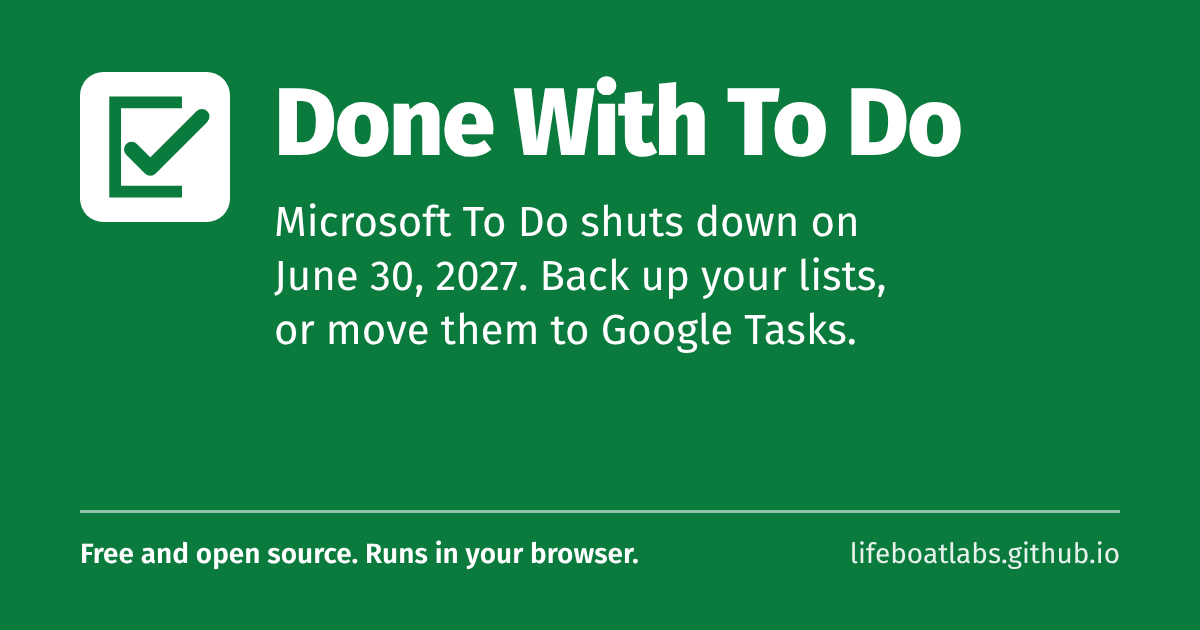
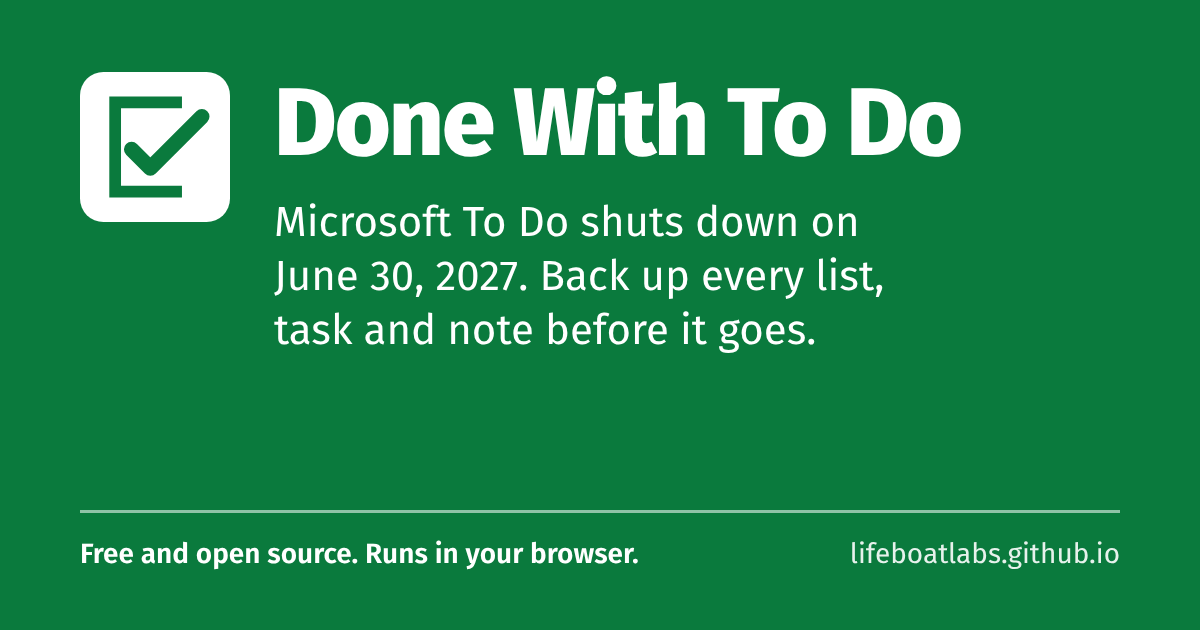
Hide Google Tasks until Google approves the app
The site now only shows what works today. While googleForEveryone is
false, Google Tasks is out of sight instead of "Coming soon": no row on
the start page, no Google card or list checkboxes on the overview (the
backup always has every list), and the start text, steps, FAQ and share
image talk about the backup only. Testers (?testers), and everyone once
the switch is flipped, get the Google version back.

Site version 9.

Claude-Session: https://claude.ai/code/session_012SxryoHjpu2soSsKdLNJGj

Changed region(s): [[0.2158, 0.3921, 0.74, 0.573]]

diff --git a/index.html b/index.html
@@ -6,25 +6,25 @@
   <meta http-equiv="Content-Security-Policy" content="default-src 'none'; script-src 'self' https://accounts.google.com/gsi/client; style-src 'self' 'unsafe-inline' https://accounts.google.com/gsi/style; font-src 'self'; img-src 'self' data: blob:; connect-src https://login.microsoftonline.com https://graph.microsoft.com https://tasks.googleapis.com https://accounts.google.com/gsi/ https://oauth2.googleapis.com; frame-src https://accounts.google.com/gsi/; base-uri 'none'; form-action 'none'; object-src 'none'">
   <meta name="color-scheme" content="light">
   <title>Done With To Do: take your Microsoft To Do lists with you</title>
-  <meta name="description" content="Microsoft To Do shuts down on June 30, 2027. Move your lists to Google Tasks or save a full backup. Free, open source, and it all happens in your browser.">
+  <meta name="description" content="Microsoft To Do shuts down on June 30, 2027. Save a full backup of every list, task, step and note: a spreadsheet, a printable page, Markdown and calendar files. Free, open source, and it all happens in your browser.">
   <meta property="og:title" content="Done With To Do">
-  <meta property="og:description" content="Microsoft To Do shuts down on June 30, 2027. Move your lists to Google Tasks or save a full backup. Free and open source.">
+  <meta property="og:description" content="Microsoft To Do shuts down on June 30, 2027. Back up every list, task and note before it goes. Free and open source.">
   <meta property="og:type" content="website">
   <meta property="og:url" content="https://lifeboatlabs.github.io/done-with-todo/">
   <meta property="og:image" content="https://lifeboatlabs.github.io/done-with-todo/og-image.png">
   <meta property="og:image:width" content="1200">
   <meta property="og:image:height" content="630">
-  <meta property="og:image:alt" content="Done With To Do: Microsoft To Do shuts down on June 30, 2027. Back up your lists, or move them to Google Tasks.">
+  <meta property="og:image:alt" content="Done With To Do: Microsoft To Do shuts down on June 30, 2027. Back up every list, task and note before it goes.">
   <meta name="twitter:card" content="summary_large_image">
   <link rel="canonical" href="https://lifeboatlabs.github.io/done-with-todo/">
-  <link rel="icon" href="favicon.svg?v=8" type="image/svg+xml">
-  <link rel="stylesheet" href="styles.css?v=8">
-  <script src="config.js?v=8" defer></script>
-  <script src="core.js?v=8" defer></script>
-  <script src="zip.js?v=8" defer></script>
-  <script src="microsoft.js?v=8" defer></script>
-  <script src="google.js?v=8" defer></script>
-  <script src="app.js?v=8" defer></script>
+  <link rel="icon" href="favicon.svg?v=9" type="image/svg+xml">
+  <link rel="stylesheet" href="styles.css?v=9">
+  <script src="config.js?v=9" defer></script>
+  <script src="core.js?v=9" defer></script>
+  <script src="zip.js?v=9" defer></script>
+  <script src="microsoft.js?v=9" defer></script>
+  <script src="google.js?v=9" defer></script>
+  <script src="app.js?v=9" defer></script>
 </head>
 <body>
   <a class="skip" href="#main">Skip to the main content</a>
@@ -73,7 +73,7 @@
         <div class="sign-body">
           <p class="sign-lead">Microsoft To Do shuts down on June 30, 2027.</p>
           <h1 id="start-title" tabindex="-1">Take your lists with you.</h1>
-          <p class="sign-text">Move them to Google Tasks, or save a full backup you can open anywhere. It's free and open source, and it all happens in your browser.</p>
+          <p class="sign-text" id="start-text">Save a full backup of every list, task, step and note, in files you can open anywhere. It's free and open source, and it all happens in your browser.</p>
           <div class="sign-actions">
             <button type="button" id="signin-ms" class="btn btn-sign">Sign in with Microsoft</button>
             <button type="button" id="try-demo" class="btn btn-sign-quiet">Try it with sample data</button>
@@ -85,13 +85,13 @@
       <ol class="route" aria-label="How it works">
         <li><strong>Sign in with Microsoft</strong><span>Microsoft shows exactly what you're agreeing to share.</span></li>
         <li><strong>Choose your lists</strong><span>See everything that was found, and pick what to take.</span></li>
-        <li><strong>Save or move</strong><span>Download a backup, or copy your lists into Google Tasks.</span></li>
+        <li id="route-save"><strong>Save your backup</strong><span>Download everything in one zip, or just the spreadsheet.</span></li>
       </ol>
 
       <section class="block" aria-labelledby="dest-title">
         <h2 id="dest-title">Where your lists can go</h2>
         <ul class="directions">
-          <li class="direction">
+          <li class="direction" id="dir-google" hidden>
             <span class="direction-arrow" aria-hidden="true"></span>
             <div><h3>Google Tasks</h3><p>Lists, tasks, steps (as subtasks), notes and due dates. Repeats and reminders are written into each task's notes, because Google Tasks can't take them.</p></div>
             <span class="direction-state" id="dest-google-state">Available</span>
@@ -114,7 +114,7 @@
         <ul class="plain-list">
           <li>With your permission, it reads your To Do lists and your name. Microsoft doesn't let it see anything else.</li>
           <li>Everything happens in this browser tab. There's no server and no database, so your tasks never reach the people who made this.</li>
-          <li>If you choose Google Tasks, it can add lists and tasks to your Google account. It never deletes anything.</li>
+          <li id="trust-google" hidden>If you choose Google Tasks, it can add lists and tasks to your Google account. It never deletes anything.</li>
           <li>No ads, no tracking, no cookies. <a href="privacy.html">Read the privacy page</a><span class="source-sentence" hidden>, or <a id="trust-source" href="#">read the code</a></span>.</li>
         </ul>
       </section>
@@ -123,7 +123,7 @@
         <h2 id="faq-title">Questions</h2>
         <details><summary>Will this change anything in Microsoft To Do?</summary><p>No. It only asks Microsoft for permission to read. If you choose to include attached files, Microsoft makes it ask for wider permission, because that's the only way Microsoft shares them, but the page still only reads. Your To Do lists stay exactly as they are until Microsoft closes the app.</p></details>
         <details><summary>Why does Microsoft call this app "unverified"?</summary><p>Microsoft only gives its "verified" badge to registered companies. This is a free project made by an individual, so it shows as unverified. The code is public, so anyone can check what it does.</p></details>
-        <details><summary>What doesn't move to Google Tasks?</summary><p>Google Tasks has no repeats, reminders, importance or attachments. Those details are written into each task's notes, and kept in full in the backup. Microsoft doesn't share My Day or list groups with other apps, so nothing can copy those.</p></details>
+        <details id="faq-google" hidden><summary>What doesn't move to Google Tasks?</summary><p>Google Tasks has no repeats, reminders, importance or attachments. Those details are written into each task's notes, and kept in full in the backup. Microsoft doesn't share My Day or list groups with other apps, so nothing can copy those.</p></details>
         <details><summary>Can I use a work or school account?</summary><p>Usually. Some organisations block apps they haven't approved. If yours does, Microsoft will say an administrator needs to approve it. Microsoft is moving work and school accounts to Planner.</p></details>
         <details><summary>What about lists that other people share with me?</summary><p>They're included. The people on a shared list don't come along, so share the new list with them again in your new app.</p></details>
         <details><summary>Is it really free?</summary><p>Yes, with no catch. If it helps you, a star on GitHub helps other people find it<span class="donate-sentence" hidden>, and a <a class="donate-link" href="#">tip</a> keeps it going</span>.</p></details>
@@ -160,18 +160,18 @@
       <section class="block" aria-labelledby="lists-title">
         <div class="block-head">
           <h2 id="lists-title">Your lists</h2>
-          <p class="inline-actions"><button type="button" id="ov-select-all" class="btn-link">Select all</button> <button type="button" id="ov-select-none" class="btn-link">Select none</button></p>
+          <p class="inline-actions" id="ov-pick-actions" hidden><button type="button" id="ov-select-all" class="btn-link">Select all</button> <button type="button" id="ov-select-none" class="btn-link">Select none</button></p>
         </div>
         <div class="table-scroll">
-          <table class="lists">
+          <table class="lists no-pick" id="ov-table">
             <thead><tr><th scope="col"><span class="visually-hidden">Include</span></th><th scope="col">List</th><th scope="col" class="num">Open</th><th scope="col" class="num">Done</th></tr></thead>
             <tbody id="ov-lists"></tbody>
           </table>
         </div>
-        <p class="muted small">The backup always includes every list. Your choices here decide what moves to Google Tasks.</p>
+        <p class="muted small" id="ov-pick-note" hidden>The backup always includes every list. Your choices here decide what moves to Google Tasks.</p>
       </section>
 
-      <div class="destinations">
+      <div class="destinations destinations-single" id="destinations">
         <section class="dest dest-backup" aria-labelledby="backup-title">
           <h2 id="backup-title">Save a full backup</h2>
           <p>One zip file with a spreadsheet, a printable page, Markdown for Obsidian, calendar files for other task apps<span id="backup-att-phrase">, and your attachments</span>.</p>
@@ -187,7 +187,7 @@
           <div id="backup-thanks" class="thanks" hidden></div>
         </section>
 
-        <section class="dest dest-google" aria-labelledby="google-title">
+        <section class="dest dest-google" id="dest-google-card" aria-labelledby="google-title" hidden>
           <h2 id="google-title">Move to Google Tasks</h2>
           <p>Each list you picked becomes a new list in Google Tasks. Steps become subtasks. Repeats, reminders and importance go into each task's notes.</p>
           <label class="check"><input type="checkbox" id="opt-completed"> <span>Copy completed tasks too</span></label>

diff --git a/app.js b/app.js
@@ -145,7 +145,7 @@
     }[ms];
     var gText = {
       ok: 'Google client ID: set. Moving to Google Tasks is ready to test.',
-      missing: 'Google client ID: not set yet. Until it is, visitors see "Coming soon" for Google Tasks (setup guide, Step 3).',
+      missing: 'Google client ID: not set yet. Until it is, Google Tasks stays hidden from visitors (setup guide, Step 3).',
       swapped: 'Google client ID: this looks like the Microsoft ID. Swap the two values in config.js.',
       bad: 'Google client ID: this doesn’t look right. It should end in .apps.googleusercontent.com.'
     }[g];
@@ -174,9 +174,14 @@
       document.querySelectorAll('.donate-sentence').forEach(function (n) { n.hidden = false; });
       document.querySelectorAll('.donate-link').forEach(function (a) { a.href = tip; a.target = '_blank'; a.rel = 'noopener'; });
     }
-    if (!gOk) {
-      $('dest-google-state').textContent = 'Coming soon';
-      $('dest-google-state').closest('.direction').classList.add('direction-unavailable');
+    // Google Tasks stays out of sight until Google approves the app (or for testers).
+    if (gOk) {
+      $('dir-google').hidden = false;
+      $('trust-google').hidden = false;
+      $('faq-google').hidden = false;
+      $('start-text').textContent = 'Move them to Google Tasks, or save a full backup you can open anywhere. It\u2019s free and open source, and it all happens in your browser.';
+      $('route-save').querySelector('strong').textContent = 'Save or move';
+      $('route-save').querySelector('span').textContent = 'Download a backup, or copy your lists into Google Tasks.';
     }
   }
 
@@ -298,10 +303,13 @@
     if (hasFiles) $('opt-attachments-label').textContent = 'Include ' + plural(s.attachments, 'attached file') + ' (' + formatBytes(s.attachmentBytes) + ')';
 
     var gBtn = $('google-move');
-    if (!gOk) {
-      $('google-title').closest('.dest').classList.add('dest-unavailable');
-      $('google-status').textContent = 'Coming soon to this site. Save a backup now and you’ll be ready.';
-    } else if (!state.google) {
+    // Without Google Tasks there's nothing to pick lists for: the backup always has every list.
+    $('dest-google-card').hidden = !gOk;
+    $('destinations').classList.toggle('destinations-single', !gOk);
+    $('ov-pick-actions').hidden = !gOk;
+    $('ov-pick-note').hidden = !gOk;
+    $('ov-table').classList.toggle('no-pick', !gOk);
+    if (gOk && !state.google) {
       state.google = new GoogleClient({ clientId: gId });
       state.google.prepare().catch(function (e) { $('google-status').textContent = e.message; $('google-status').classList.add('status-error'); });
     }

diff --git a/privacy.html b/privacy.html
@@ -7,10 +7,10 @@
   <meta name="color-scheme" content="light">
   <title>Privacy: Done With To Do</title>
   <link rel="canonical" href="https://lifeboatlabs.github.io/done-with-todo/privacy.html">
-  <link rel="icon" href="favicon.svg?v=8" type="image/svg+xml">
-  <link rel="stylesheet" href="styles.css?v=8">
-  <script src="config.js?v=8" defer></script>
-  <script src="privacy.js?v=8" defer></script>
+  <link rel="icon" href="favicon.svg?v=9" type="image/svg+xml">
+  <link rel="stylesheet" href="styles.css?v=9">
+  <script src="config.js?v=9" defer></script>
+  <script src="privacy.js?v=9" defer></script>
 </head>
 <body>
   <header class="site-header">

diff --git a/styles.css b/styles.css
@@ -205,6 +205,8 @@ input[type="checkbox"] { width: 1.2rem; height: 1.2rem; accent-color: var(--gree
 .tag-moved { color: var(--green-deep); background: var(--green-tint); }
 
 .destinations { display: grid; grid-template-columns: 1fr 1fr; gap: 1.5rem; margin-top: 2.5rem; }
+.destinations-single { grid-template-columns: minmax(0, 40rem); }
+.lists.no-pick .cell-check, .lists.no-pick thead th:first-child { display: none; }
 .dest { border: 1px solid var(--line); border-top: 8px solid var(--green); border-radius: 8px; padding: 1.5rem; display: flex; flex-direction: column; }
 .dest p { margin: 0.25rem 0 0.75rem; }
 .dest .actions { margin: 0.5rem 0 0.25rem; }

diff --git a/core.js b/core.js
@@ -20,7 +20,7 @@
   var core = {};
   // Shown in technical details, so a report says which version of the site the person had.
   // Bump it together with the ?v= numbers in index.html and privacy.html.
-  core.VERSION = '8';
+  core.VERSION = '9';
 
   // ---------------------------------------------------------------- errors
 

diff --git a/tests/e2e.py b/tests/e2e.py
@@ -195,7 +195,7 @@ with sync_playwright() as p:
     check('A setup box shows the exact site address', page.text_content('#setup-address') == BASE, page.text_content('#setup-address'))
     check('A setup box shows the origin', page.text_content('#setup-origin') == BASE.rstrip('/'))
     check('A sign-in disabled until configured', page.is_disabled('#signin-ms'))
-    check('A Google shows Coming soon when not configured', page.text_content('#dest-google-state') == 'Coming soon')
+    check('A Google Tasks stays hidden when not configured', page.is_hidden('#dir-google') and 'Google' not in page.text_content('#start-text'))
     page.screenshot(path=os.path.join(SHOTS, 'a-start-setup.png'), full_page=True)
     page.click('#try-demo')
     page.wait_for_selector('#view-overview:not([hidden])')
@@ -245,6 +245,7 @@ with sync_playwright() as p:
     check('B setup box hidden once configured', page.is_hidden('#setup'))
     check('B header shows source and tip links', page.is_visible('#header-source') and page.is_visible('#header-donate'))
     page.screenshot(path=os.path.join(SHOTS, 'b-start-configured.png'), full_page=False)
+    check('B with Google switched on, the start page offers Google Tasks', page.is_visible('#dir-google') and 'Google Tasks' in page.text_content('#start-text') and page.text_content('#route-save strong') == 'Save or move')
     page.click('#signin-ms')
     page.wait_for_selector('#view-overview:not([hidden])', timeout=20000)
     check('B URL cleaned after sign-in', '#' not in page.url and 'code=' not in page.url, page.url)
@@ -252,6 +253,7 @@ with sync_playwright() as p:
     check('B all 124 tasks read across pages', 'with 124 tasks' in page.text_content('#ov-summary'), page.text_content('#ov-summary'))
     check('B list ids URL-encoded for Graph', any('/lists/L2%2Fx/tasks' in c for c in graph_log), [c for c in graph_log if 'L2' in c][:2])
     check('B Google button counts lists', page.text_content('#google-move') == 'Move 2 lists to Google Tasks', page.text_content('#google-move'))
+    check('B with Google on, lists can be picked', page.is_visible('#ov-pick-actions') and page.is_visible('#ov-table .cell-check'))
     page.screenshot(path=os.path.join(SHOTS, 'b-overview.png'), full_page=True)
     # backup with a real attachment download
     with page.expect_download() as dl:
@@ -315,7 +317,7 @@ with sync_playwright() as p:
     ctx.route(CONFIG_URL, lambda r, q: r.fulfill(status=200, content_type='application/javascript', body=GATED))
     page = ctx.new_page()
     page.goto(BASE + '?demo'); page.wait_for_selector('#view-overview:not([hidden])')
-    check('E Google hidden from the public while googleForEveryone is false', not page.is_visible('#google-move') and 'Coming soon' in page.text_content('#google-status'))
+    check('E Google hidden from the public while googleForEveryone is false', page.is_hidden('#dest-google-card') and page.is_hidden('#ov-pick-actions') and page.is_hidden('#ov-table .cell-check'))
     page.goto(BASE + '?demo&testers'); page.wait_for_selector('#view-overview:not([hidden])')
     check('E testers see Google', page.is_visible('#google-move'))
     page.goto(BASE + '?demo'); page.wait_for_selector('#view-overview:not([hidden])')

diff --git a/README.md b/README.md
@@ -14,7 +14,7 @@ Done With To Do is a free web page that copies your Microsoft To Do lists into G
 2. **Choose your lists.** You see every list and task it found.
 3. **Save or move them.**
     - **Full backup (.zip):** a spreadsheet (CSV), a printable page, Markdown files for Obsidian (Tasks plugin format), calendar files (.ics) for Thunderbird, Nextcloud, Tasks.org and others, a JSON file with everything, and the files attached to your tasks.
-    - **Google Tasks:** each list becomes a Google Tasks list. Steps become subtasks, and notes, due dates and completed tasks come too. This opens to everyone once Google finishes reviewing the app; until then the page says "Coming soon".
+    - **Google Tasks:** each list becomes a Google Tasks list. Steps become subtasks, and notes, due dates and completed tasks come too. This opens to everyone once Google finishes reviewing the app; until then it stays hidden, so the page only shows what works today.
 
 ## What moves where
 
